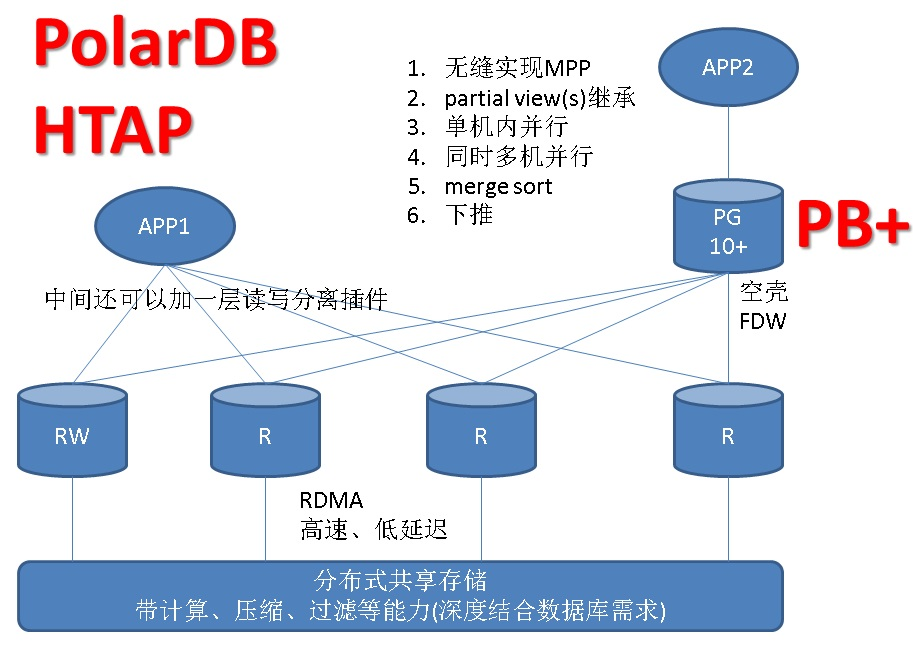
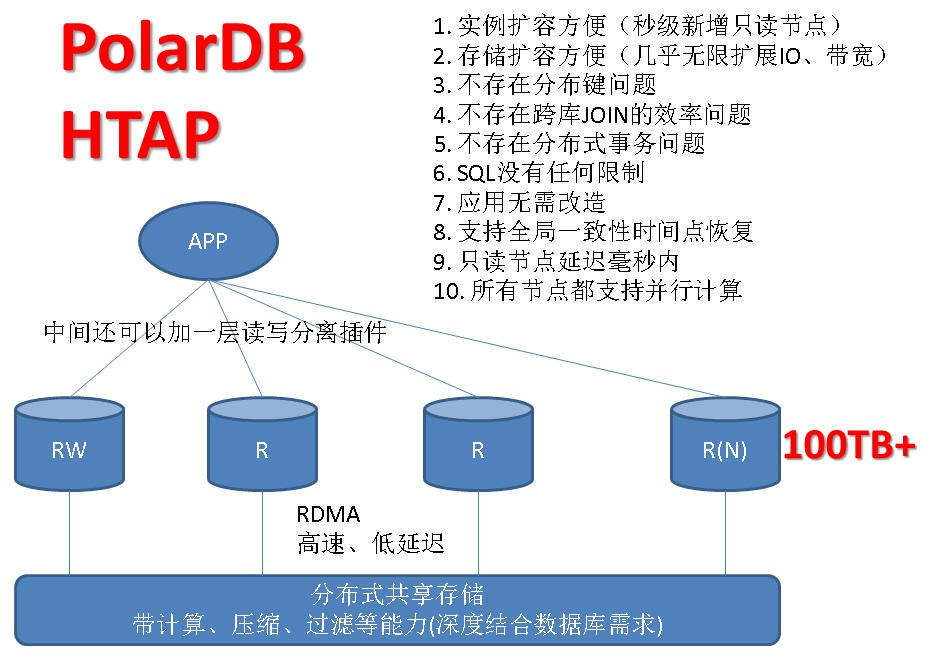
new doc

diff --git a/201710/20171013_04.md b/201710/20171013_04.md
@@ -20,11 +20,11 @@ PostgreSQL , 共享分布式存储 , 存储计算能力。
   
 ![pic](20171013_04_pic_001.jpg)  
   
-![pic](20171013_04_pic_002.jpg)  
+![pic](20171013_04_pic_003.jpg)  
   
 如果还想再充分利用所有主机的计算能力，还可以这样玩耍：  
   
-![pic](20171013_04_pic_003.jpg)  
+![pic](20171013_04_pic_004.jpg)  
   
 ## 点评  
 ### 1、作为OLTP业务，使用sharding带来的问题较多，有点得不偿失。  
@@ -35,7 +35,7 @@ PostgreSQL , 共享分布式存储 , 存储计算能力。
   
 1、3. 分布键选择（架构设计）谨慎  
   
-1、4. 跨库JOIN性能差，甚至只能按分布键JOIN，其他字段不支持JOIN。    
+1、4. 跨库JOIN性能差，甚至只能按分布键JOIN，其他字段不支持JOIN。（因为这种产品架构数据节点之间是孤岛，数据需要在孤岛之间交互，需要通过上层的中间件节点，而这样的话，如果有跨库JOIN，就需要将数据收到中间件节点再JOIN，性能差是可想而知的。）      
   
 1、5. 分布式事务性能差，甚至不支持分布式事务。    
   
@@ -45,9 +45,21 @@ PostgreSQL , 共享分布式存储 , 存储计算能力。
   
 1、8. 全局一致性时间点恢复几乎不可实现  
   
-### 2、作为OLAP业务，使用sharding(MPP)架构，是值得的，可以充分利用多机的计算能力、IO能力，提高处理吞吐，例如阿里云的HybridDB for PG。  
+### 2、作为OLAP业务，如果使用sharding(MPP)架构，是值得的，可以充分利用多机的计算能力、IO能力，提高处理吞吐，例如阿里云的HybridDB for PG。   
+  
+而如果使用中间件的sharding形态，则不适合OLAP业务。(原因是节点间不支持互通，在AP中有大量的JOIN需求，节点间不同带来一个问题，JOIN需要将数据汇聚到中间件节点执行，导致非常慢，几乎不可用)    
+  
+HDB PG是MPP形态的产品，计算节点之间可以相互通讯，任意列的JOIN都不存在问题，同时还支持行列混合，多阶聚合的功能，是专门为OLAP场景打造的一款PB级分布式分析数据库。  
+  
+![pic](20171013_04_pic_002.jpg)  
+  
+[《阿里云HybridDB for PostgreSQL实践 - 多阶聚合》](../201708/20170821_02.md)    
   
 [阿里云的HybridDB for PG](https://www.aliyun.com/product/gpdb)  
+  
+HDB PG支撑了很多海量分析的业务场景。  
+    
+![pic](20171013_04_pic_005.jpg)    
   
 ### 3、作为HTAP(oltp+olap)业务，使用共享分布式存储，一写多读的架构，是目前最先进的架构。  
   
@@ -71,4 +83,7 @@ PostgreSQL , 共享分布式存储 , 存储计算能力。
   
 3、10. 所有节点都支持并行计算  
   
-3、11. 分布式存储与数据库引擎深度结合，支持硬件级计算、加解密、加解压、数据过滤、类型预处理等能力。大幅度降低数据传输和上层处理的压力。         
+3、11. 分布式存储：存储和引擎分离后，存储可以专心支持多副本，支持跨域容灾，支持高带宽，支持几乎无限的扩容能力。同时与数据库引擎深度结合，支持硬件级计算、加解密、加解压、数据过滤、类型预处理等能力。大幅度降低数据传输和上层处理的压力。         
+  
+目前阿里云推出的PolarDB正是这种架构，已支持MySQL协议，正在支持PostgreSQL协议。   
+   
